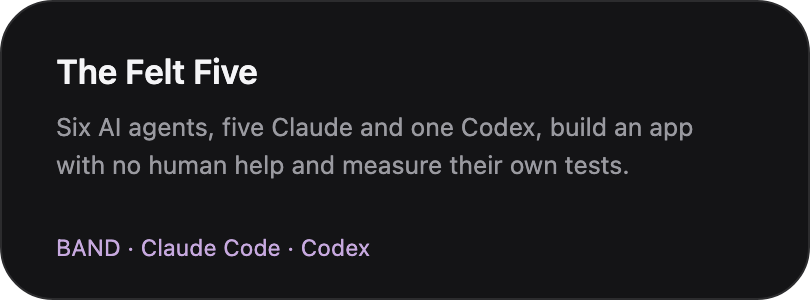
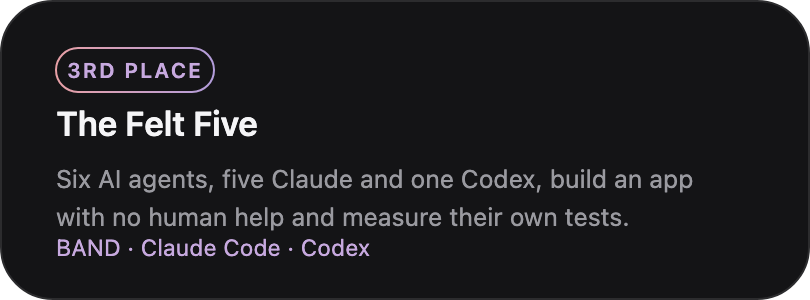
Project card: The Felt Five placed 3rd in the pocketful track

diff --git a/build_cards.py b/build_cards.py
@@ -120,7 +120,7 @@ PROJECTS = [
     ("card-feltfive.svg", "The Felt Five",
      ["Six AI agents, five Claude and one Codex, build an app",
       "with no human help and measure their own tests."],
-     "BAND · Claude Code · Codex", None),
+     "BAND · Claude Code · Codex", "3RD PLACE"),
 
     ("card-gloveson.svg", "GlovesOn",
      ["Voice agent that posts goods receipts into SAP —",

diff --git a/README.md b/README.md
@@ -43,7 +43,7 @@
 <br/>
 
 <a href="https://github.com/kosesena/dark-factory-pocketful">
-  <img width="405" src="./card-feltfive.png" alt="The Felt Five — six AI agents, five Claude and one Codex, build an app with no human help and measure their own tests, built for the WeAreDevelopers x BAND Dark Factory hackathon" />
+  <img width="405" src="./card-feltfive.png" alt="The Felt Five — six AI agents, five Claude and one Codex, build an app with no human help and measure their own tests, 3rd place in the pocketful track of the WeAreDevelopers x BAND Dark Factory hackathon" />
 </a>
 &nbsp;
 <a href="https://github.com/kosesena/GlovesOn">
